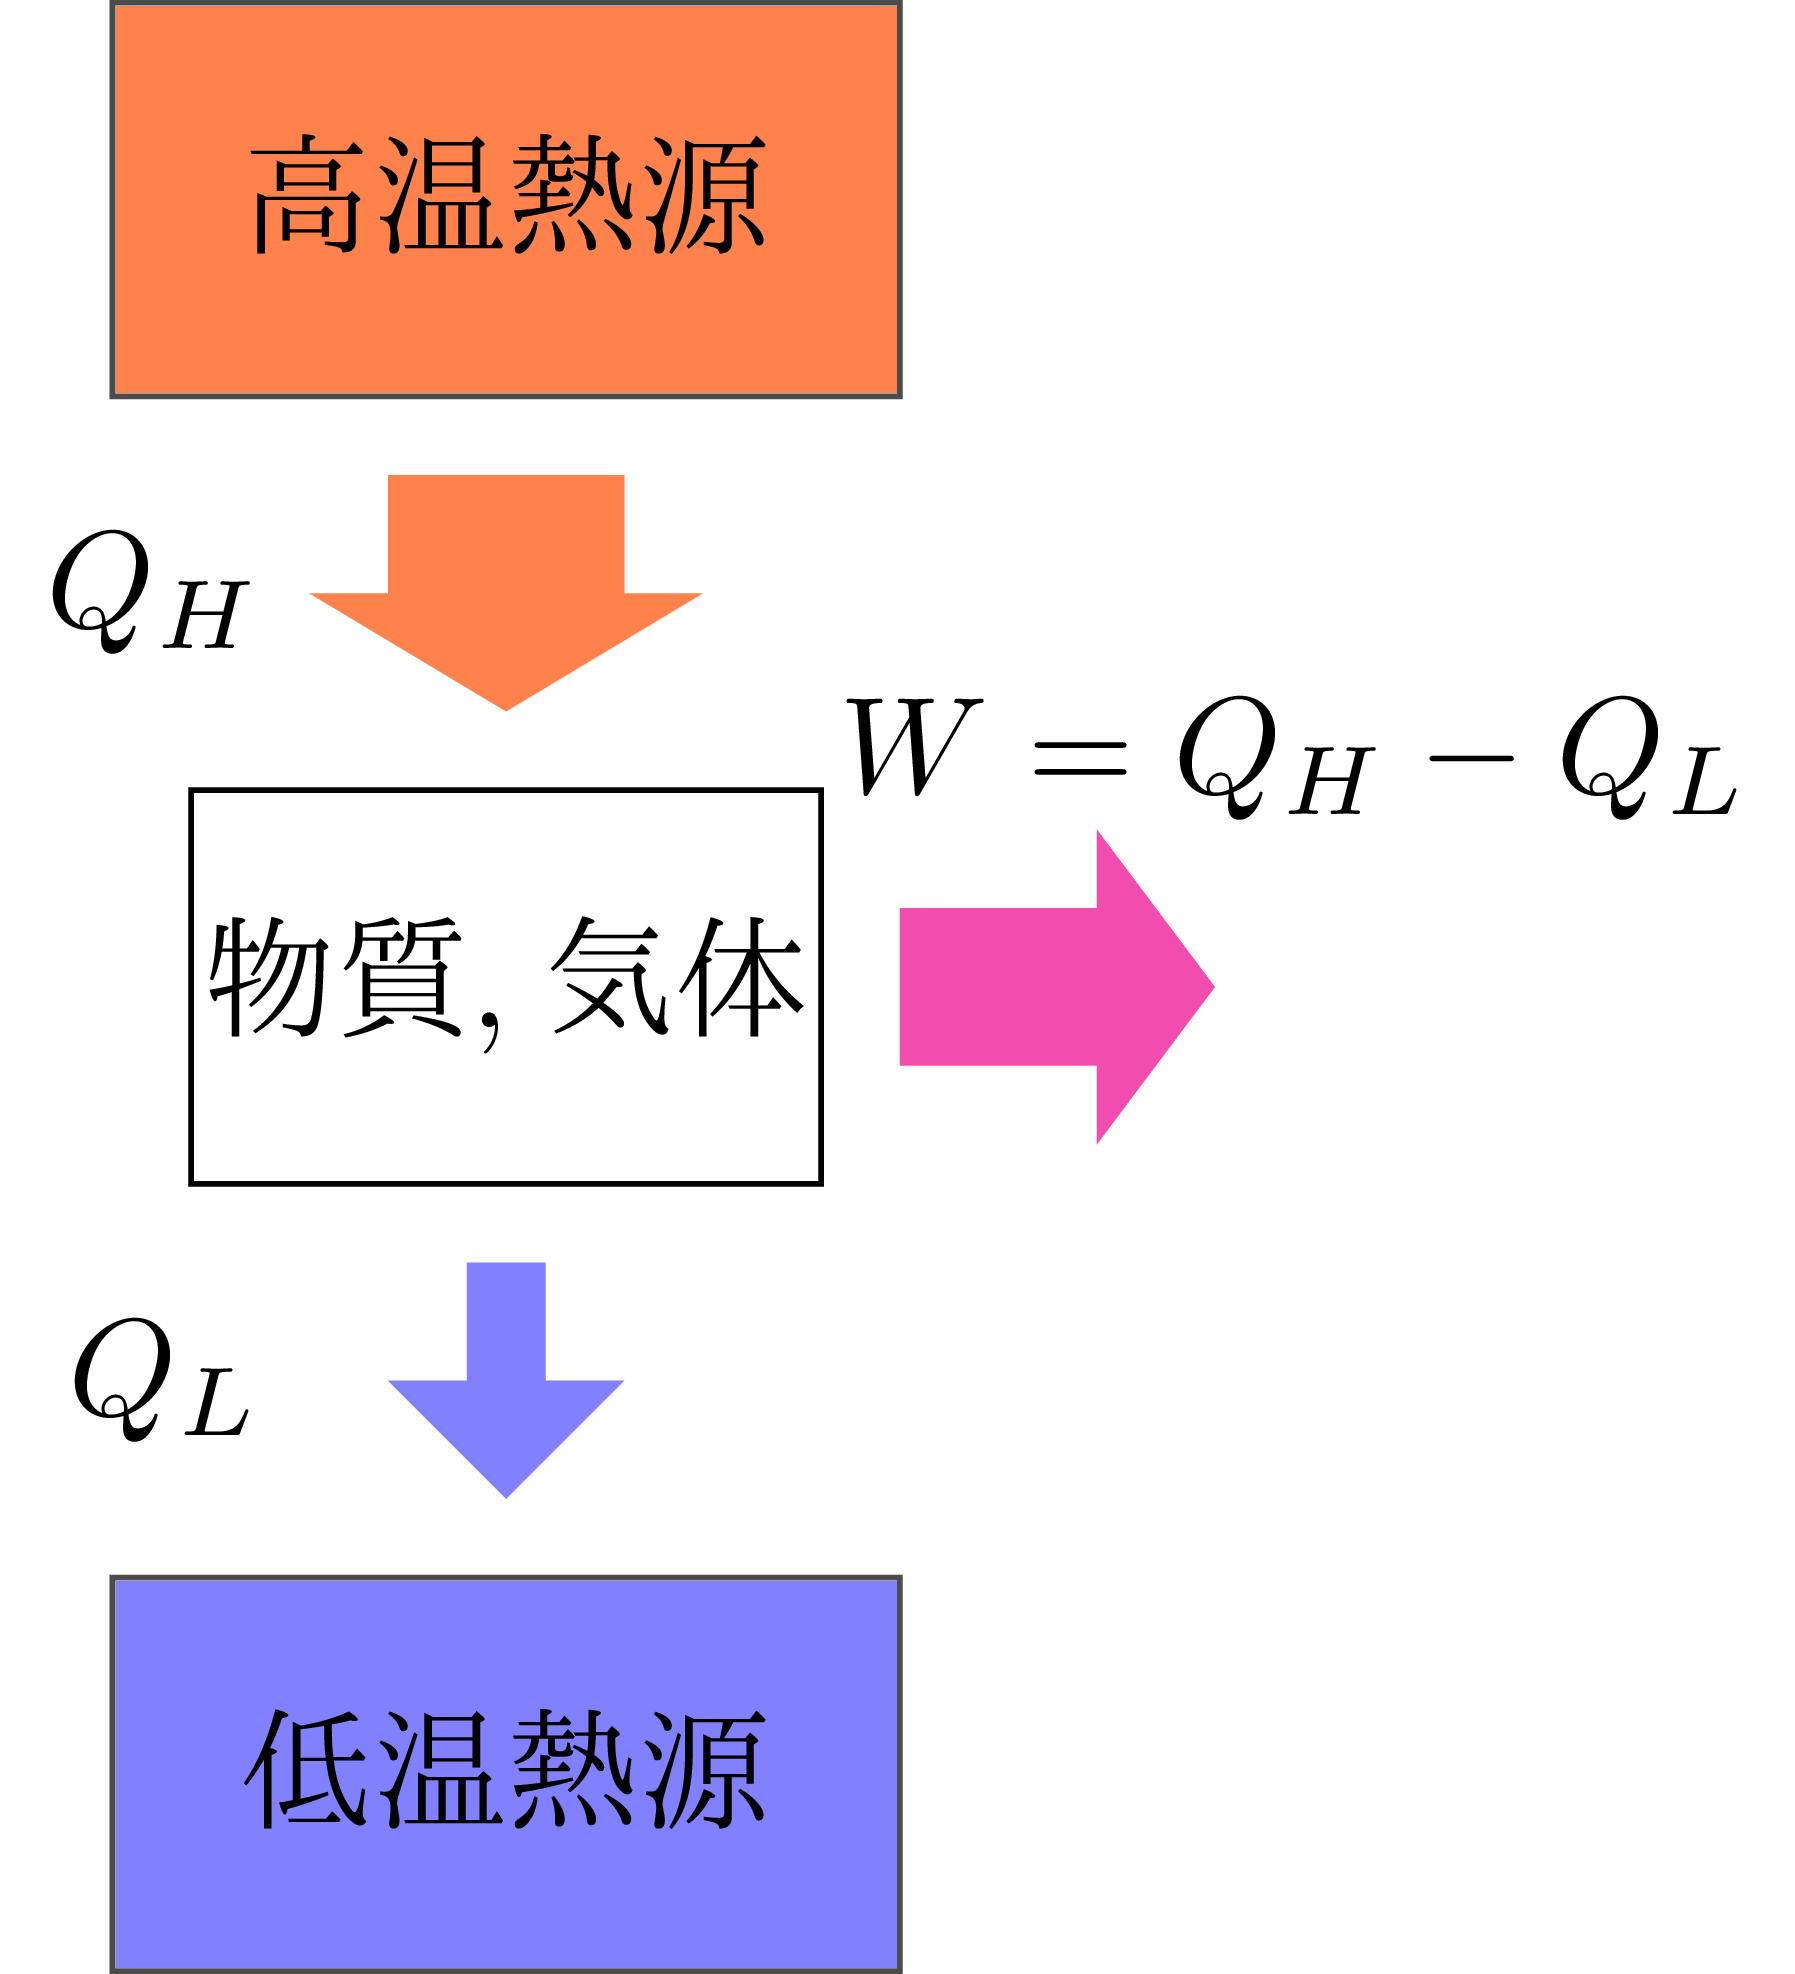
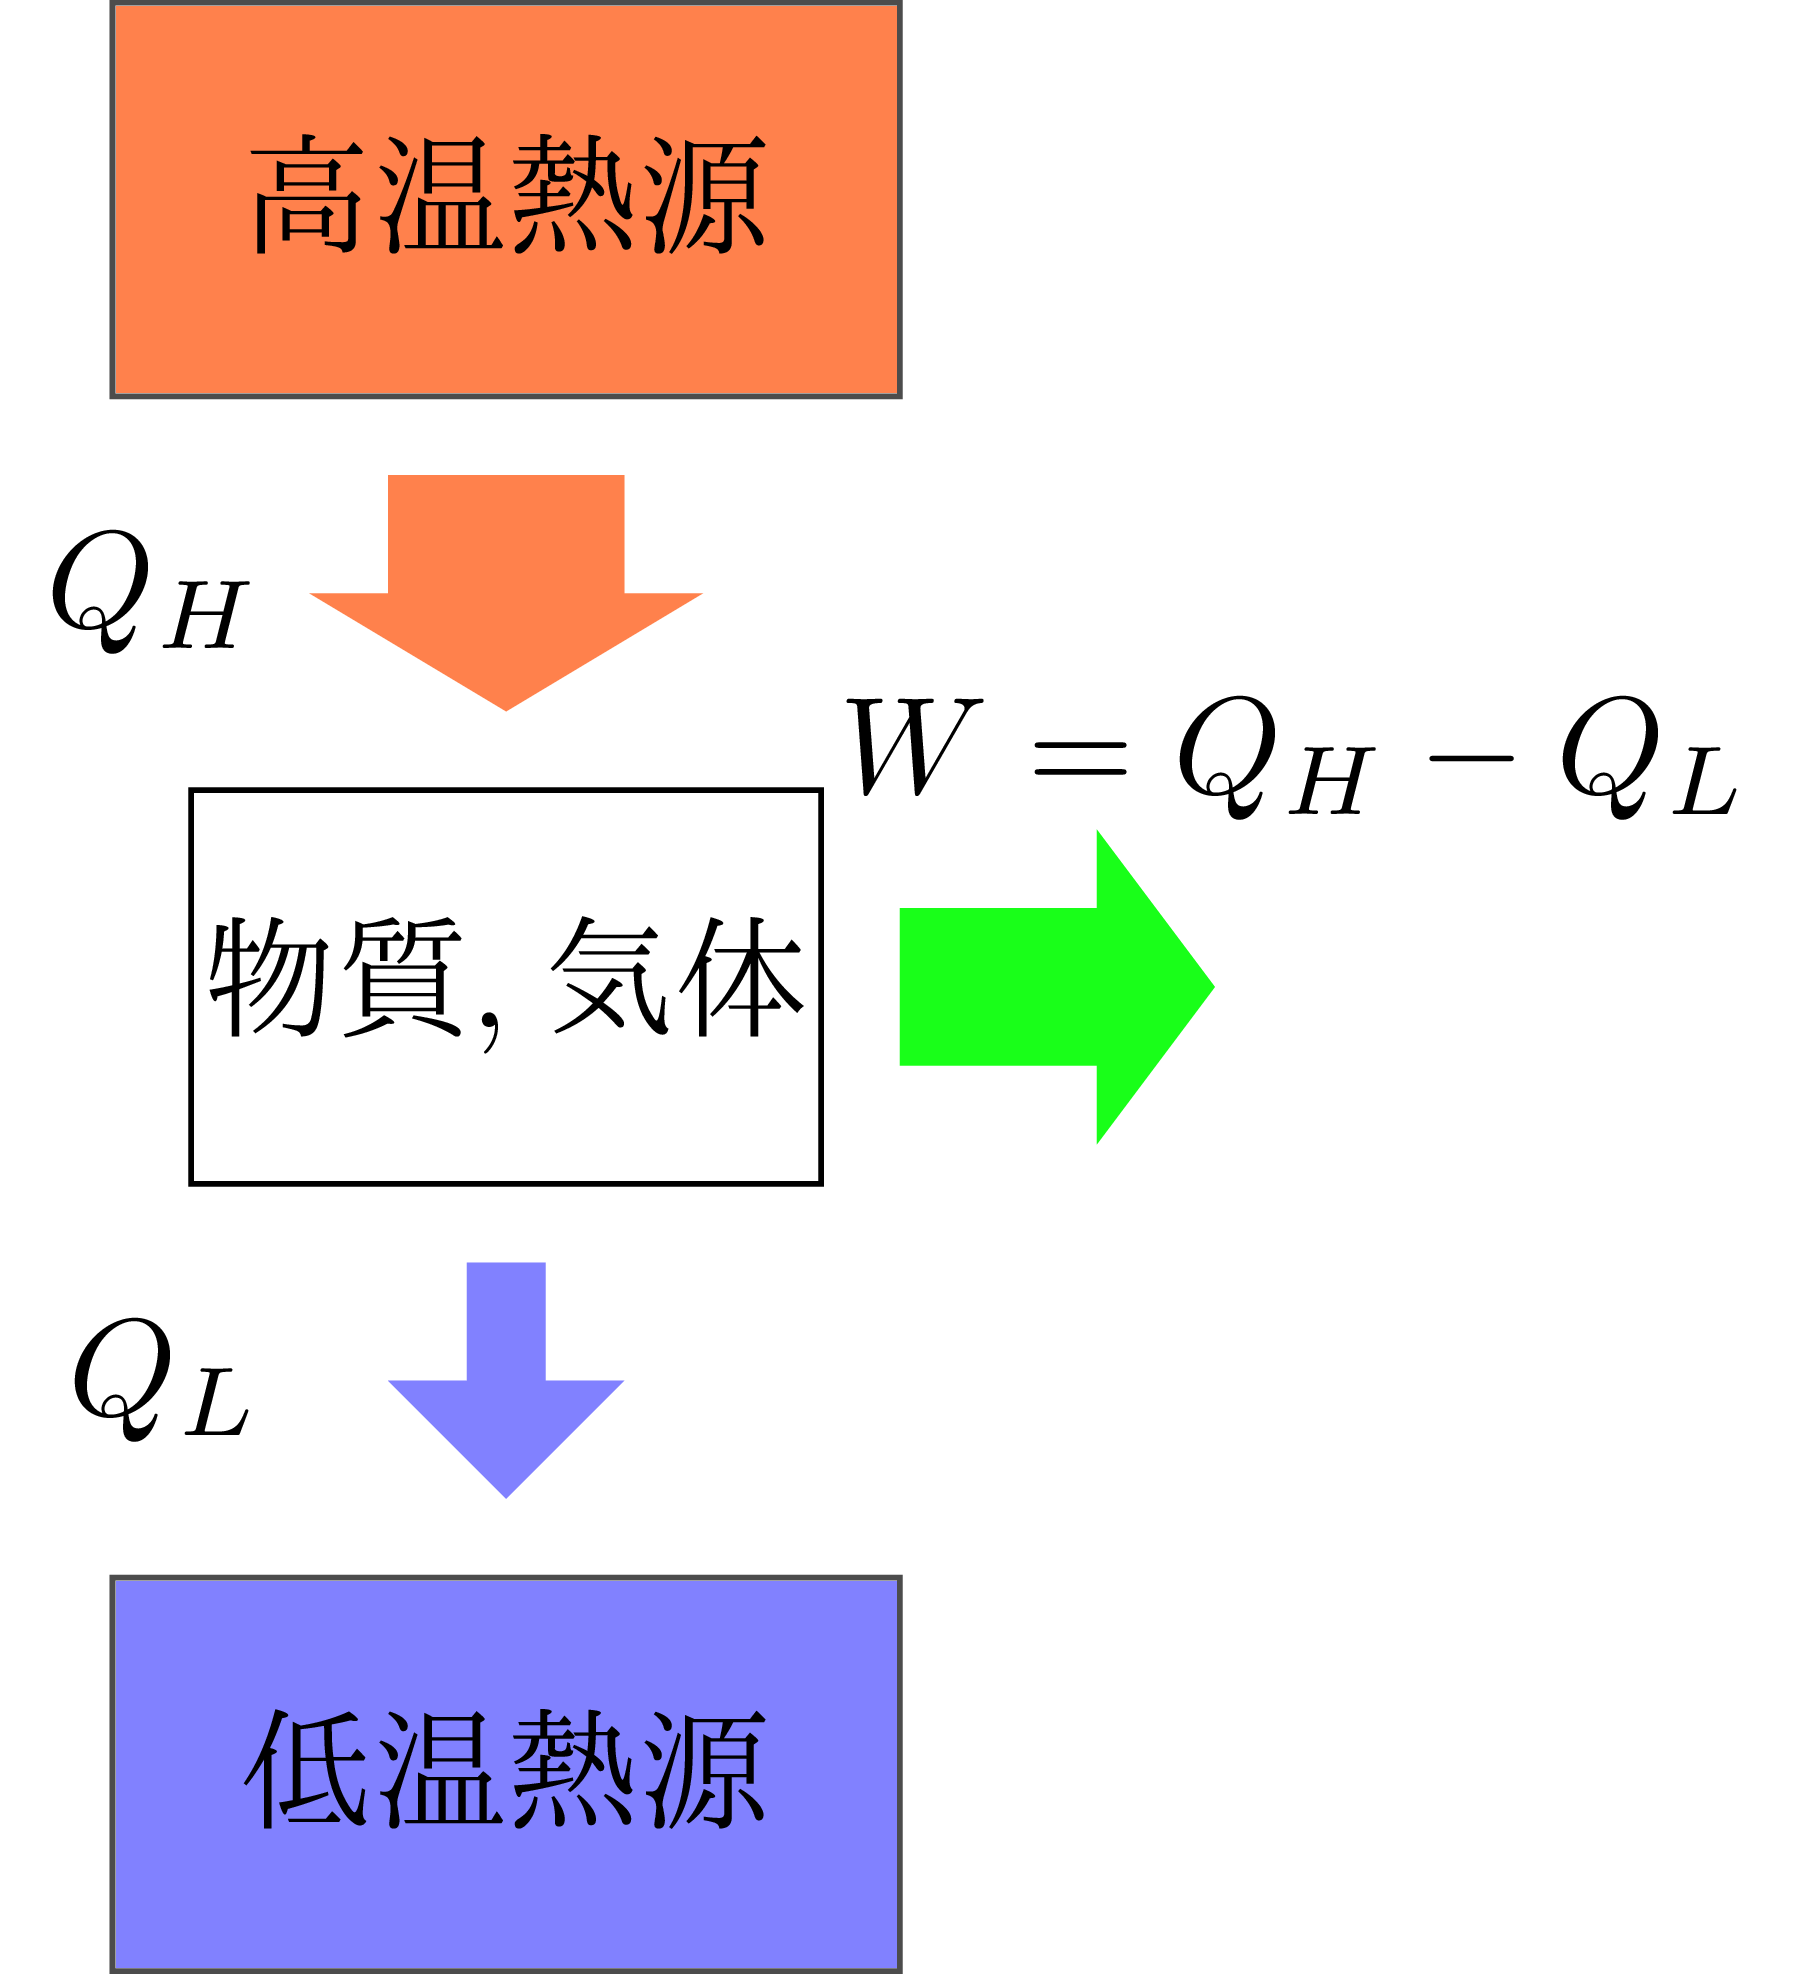
image

Changed region(s): [[0.4992, 0.4326, 0.6864, 0.5871]]

diff --git a/Slt/image/image.tex b/Slt/image/image.tex
@@ -11,7 +11,7 @@
     \draw (0,-2) node{低温熱源};
     \fill[red!70!yellow, opacity=0.7] (-0.3,1.3) -- (0.3,1.3) -- (0.3,1) -- (0.5,1) -- (0,0.7) -- (-0.5,1) -- (-0.3,1) -- cycle;
     \fill[blue!70!white, opacity=0.7, shift={(0,-2)}] (-0.1,1.3) -- (0.1,1.3) -- (0.1,1) -- (0.3,1) -- (0,0.7) -- (-0.3,1) -- (-0.1,1) -- cycle;
-    \fill[magenta, opacity=0.7, shift={(0,-2.5)}, rotate around={90:(0,2.5)}] (-0.2,1.5) -- (0.2,1.5) -- (0.2,1) -- (0.4,1) -- (0,0.7) -- (-0.4,1) -- (-0.2,1) -- cycle;
+    \fill[green, opacity=0.9, shift={(0,-2.5)}, rotate around={90:(0,2.5)}] (-0.2,1.5) -- (0.2,1.5) -- (0.2,1) -- (0.4,1) -- (0,0.7) -- (-0.4,1) -- (-0.2,1) -- cycle;
     \draw (-0.5,1) node[left]{$Q_H$};
     \draw (-0.5,-1) node[left]{$Q_L$};
     \draw (2.0,0.3) node[above]{$W = Q_H - Q_L$};
